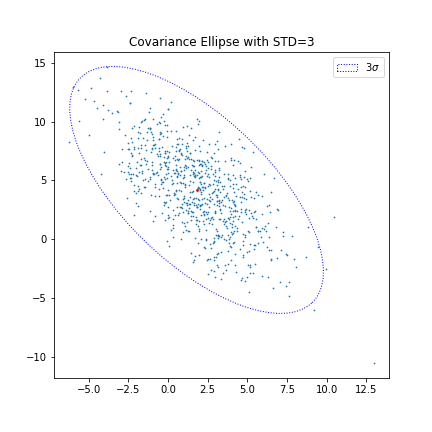
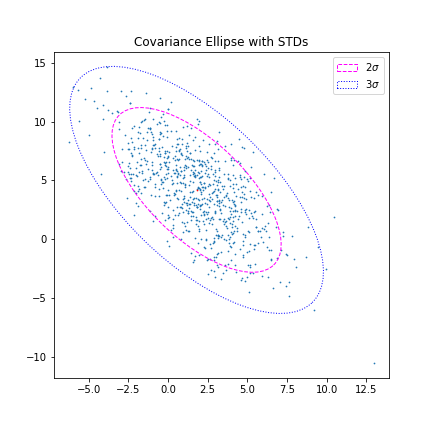
Covariance: test out with eigenvalues and outputs of stat info

diff --git a/covariance.py b/covariance.py
@@ -62,7 +62,7 @@ import matplotlib.pyplot as plt
 from matplotlib.patches import Ellipse
 import matplotlib.transforms as transforms
 
-def confidence_ellipse(x, y, ax, n_std=3.0, facecolor='none', **kwargs):
+def confidence_ellipse(x, y, ax, n_std=3.0, facecolor='none', verbose=False, **kwargs):
     """
     Create a plot of the covariance confidence ellipse of *x* and *y*.
 
@@ -105,13 +105,29 @@ def confidence_ellipse(x, y, ax, n_std=3.0, facecolor='none', **kwargs):
     # calculating the standard deviation of y ...
     scale_y = np.sqrt(cov[1, 1]) * n_std
     mean_y = np.mean(y)
+    
+    rotatedeg = 45 # degrees (always true)
+    
+    ###
+    # for testing only for plots; please comment out
+    # mean_x, mean_y = 0,0
+    # rotatedeg = 0
+    ###
 
     transf = transforms.Affine2D() \
-        .rotate_deg(45) \
+        .rotate_deg(rotatedeg) \
         .scale(scale_x, scale_y) \
         .translate(mean_x, mean_y)
 
     ellipse.set_transform(transf + ax.transData)
+    
+    # if verbose then print out more info
+    if verbose:
+        print('Scale (x): ', scale_x)
+        print('Scale (y): ', scale_y)
+        print('Mean (x):  ', mean_x)
+        print('Mean (y):  ', mean_y)    
+    
     return ax.add_patch(ellipse)
 
 #%%
@@ -143,6 +159,11 @@ if __name__ == '__main__':
     except:
         runtype = ''
         
+    if '-verbose' in sys.argv:
+        verbose = True
+    else:
+        verbose = False
+        
     # make covariance folder if doesn't exist
     if not os.path.exists('covariance'):
         print('Covariance folder not found. Creating folder named covariance.')
@@ -160,22 +181,43 @@ if __name__ == '__main__':
         corr_matrix = df.corr().round(2)
         print('Correlation matrix: ')
         print(corr_matrix)
-        
-        # create the plot
+
         x = np.array(df.iloc[:,0])
-        y = np.array(df.iloc[:,1])
+        y = np.array(df.iloc[:,1])        
+        print('Mean (x): ', np.mean(x))
+        print('Mean (y): ', np.mean(y))
         
+        #%% calculate covariance the 'traditional' way
+        eigenvalues, eigenvectors = np.linalg.eig(np.cov(x,y))
+        # degree of freedom assuming 2 and using 2-sigma confidence interval (approximately 95%)
+        # k = 2, chi-squared = 6.18
+        horizontal_semiaxis = np.sqrt(eigenvalues[0]*6.18)
+        vertical_semiaxis   = np.sqrt(eigenvalues[1]*6.18)
+        print('Horizontal 2-sigma axis half-length: ', horizontal_semiaxis)
+        print('Vertical   2-sigma axis half-length: ', vertical_semiaxis)
+        # k = 2, chi-squared = 11.83
+        horizontal_semiaxis = np.sqrt(eigenvalues[0]*11.83)
+        vertical_semiaxis   = np.sqrt(eigenvalues[1]*11.83)
+        print('Horizontal 3-sigma axis half-length: ', horizontal_semiaxis)
+        print('Vertical   3-sigma axis half-length: ', vertical_semiaxis)
+        
+        #%% create the plot
         fig, ax = plt.subplots(figsize=(6, 6))
         ax.scatter(x, y, s=0.5)
         
-        confidence_ellipse(x, y, ax, n_std=3,
+        print('Error ellipse with std=2')
+        confidence_ellipse(x, y, ax, n_std=2, verbose = verbose,
+                           label=r'$2\sigma$', edgecolor='fuchsia', linestyle='--')
+        
+        print('Error ellipse with std=3')
+        confidence_ellipse(x, y, ax, n_std=3, verbose=verbose,
                            label=r'$3\sigma$', edgecolor='blue', linestyle=':')
         
         mu = np.mean(x), np.mean(y)
         
-        stdnum = 3
-        ax.scatter(mu[0], mu[1], c='red', s=stdnum)
-        ax.set_title(f'Covariance Ellipse with STD={stdnum}')
+        ax.scatter(mu[0], mu[1], c='red', s=0.5)
+        
+        ax.set_title('Covariance Ellipse with STDs')
         ax.legend()
         
         figurename = 'covarianceplot_' + os.path.basename(runtype)
@@ -183,6 +225,7 @@ if __name__ == '__main__':
         plt.show()
     
     elif runtype in ['', 'example']:
+        #%%
         np.random.seed(0)
         
         PARAMETERS = {
